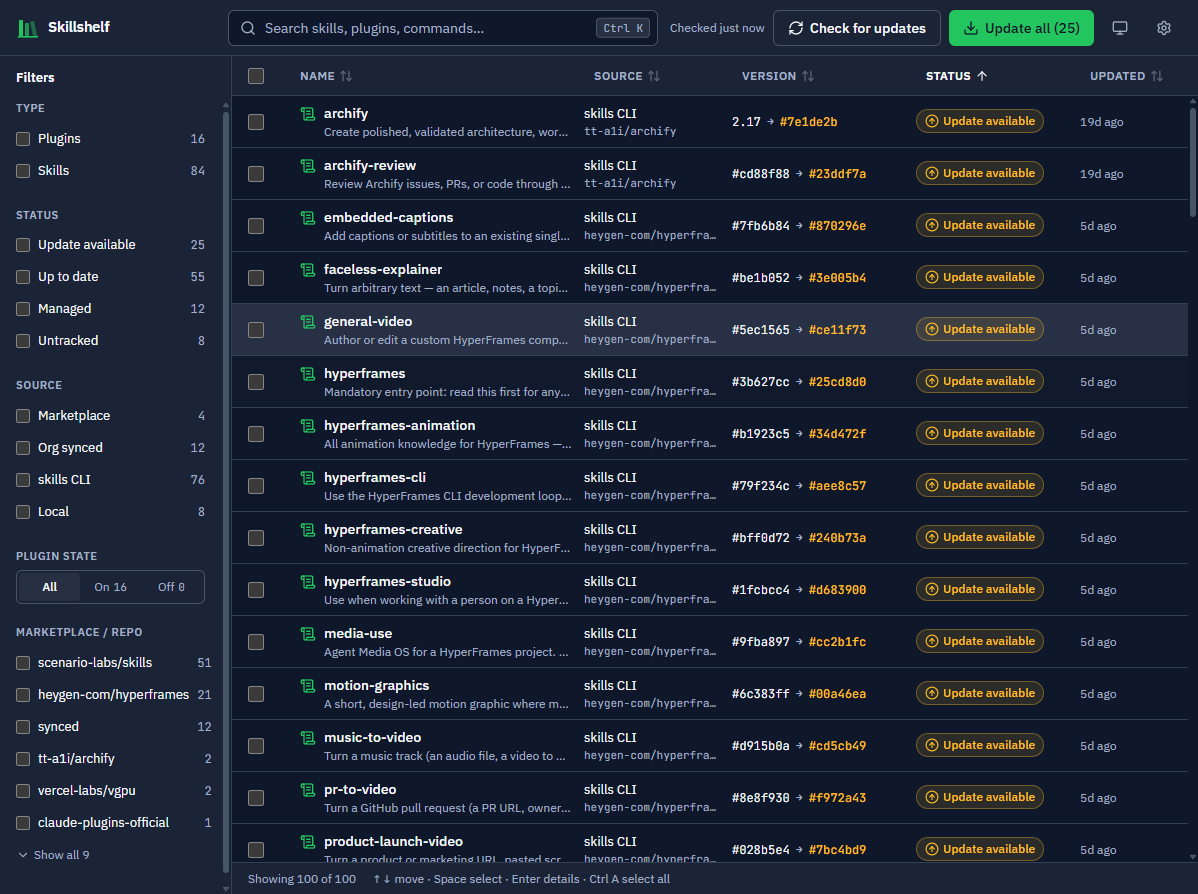
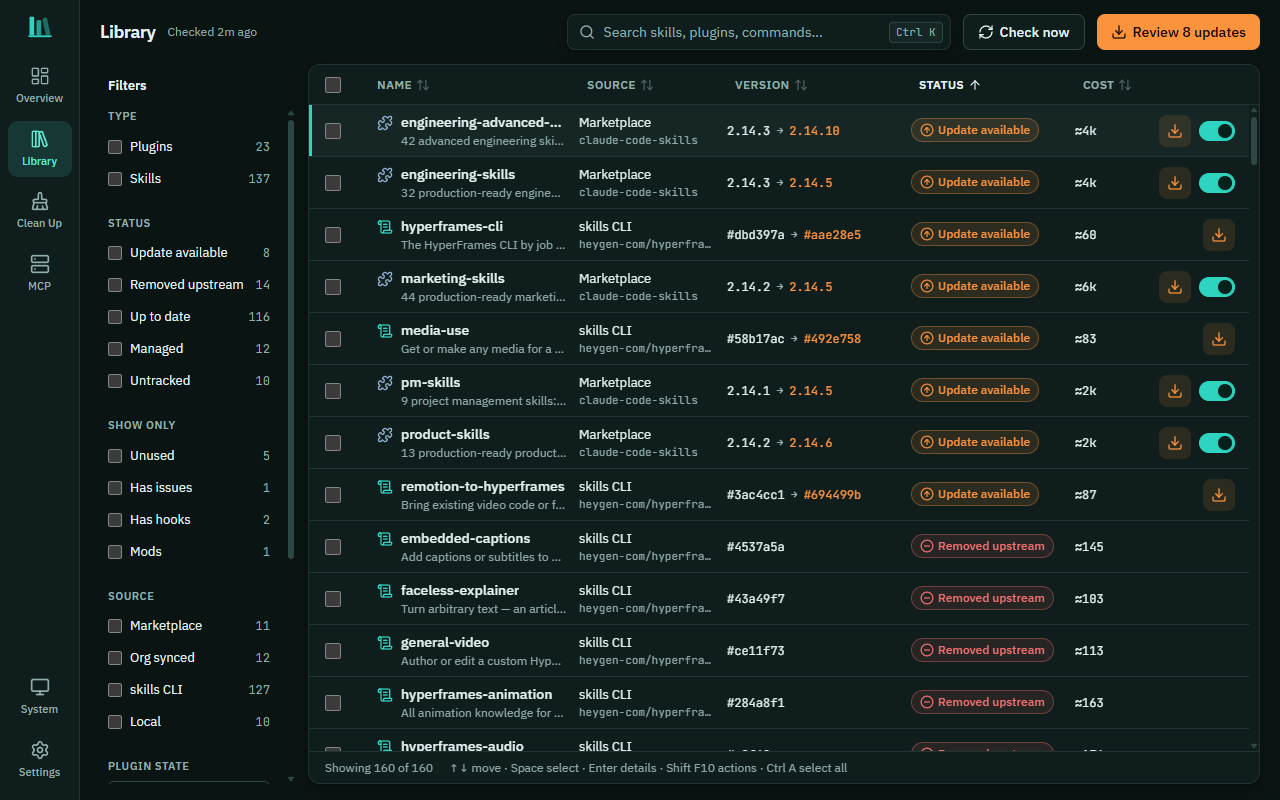
README: document v0.2 features and refresh screenshots
Feature list, risk flags, context cost and usage (transcripts stay
local), uninstall and plugin data, tray, updating a clone, and the new
module layout. The skills changelog row now describes the tree-hash
lookup. Screenshots retaken from the real app (Library dark, Overview
light).

diff --git a/README.md b/README.md
@@ -4,12 +4,20 @@
 
 A desktop app for the skills and plugins you've installed for Claude Code. It runs on Windows, macOS and Linux. You can:
 
-- **See everything in one list**: marketplace plugins, plugins your claude.ai organization syncs to you, skills installed with the [`skills` CLI](https://skills.sh), hand-made skills in `~/.claude/skills`, and skills in project folders you add.
-- **Check what's out of date**: Skillshelf compares each item with its upstream source (see below).
-- **See what changed** before you update: commits and release notes between your version and the latest (see below).
-- **Update** one item, a selection, or everything with **Update all**.
-- **Filter, sort and search** by type, status, source, marketplace/repo and on/off state. Each filter option shows a count.
-- **Enable/disable** plugins, **uninstall** items (always with a confirmation), and open an item's folder or source repo.
+- **See everything in one list**: marketplace plugins, plugins your claude.ai organization syncs to you, skills installed with the [`skills` CLI](https://skills.sh), hand-made skills in `~/.claude/skills`, and skills in project folders you add. Claude Code mods get a **Mod** tag.
+- **Start from the Overview**: pending updates, context cost per session and the heaviest items, unused plugins, MCP server problems, skill health issues and skills that changed upstream.
+- **Check what's out of date** at launch and once a day. Skillshelf compares each item with its upstream source (see below) and sends one notification per new update.
+- **Review before you update**: commits and release notes between your version and the latest, plus risk flags when an update changes hooks, MCP servers, scripts or a skill's allowed tools (see below).
+- **Update** one item from its row, the right-click menu, the details panel or the tray, or several with **Update all**: a review sheet where you untick what to skip. A batch shows its progress and has a **Stop** button.
+- **See what each item costs**: an estimate of the tokens it adds to every session, and how often you used it in the last 30 days, counted from your local transcripts (see below).
+- **Clean up**: unused plugins, plugins with hooks, org-managed plugins (locked), and skills that moved or were removed upstream, with Turn off, Uninstall and Reinstall.
+- **Check MCP servers**: each server's status, grouped by plugin, with the reason when it can't connect.
+- **Filter, sort and search** by type, status, source, marketplace/repo, on/off state, and Unused, Has issues, Has hooks or Mods. Sort by context cost or uses too. Each filter option shows a count.
+- **Turn plugins on and off**, **uninstall** items (always with a confirmation), and open an item's folder or source repo.
+
+Closing the window keeps Skillshelf in the tray (menu bar on macOS), so daily checks and notifications keep running. The tray menu lists pending updates and has **Check now**, **Update all** and **Quit**.
+
+![Overview](docs/screenshot-light.png)
 
 ## How update checks work
 
@@ -26,17 +34,28 @@ Plugin changes apply after you restart Claude Code. The app shows a reminder whe
 
 ## What changed
 
-When you open an item with an update, the detail panel lists what changed since your version. The update confirmation shows a one-line summary. Skillshelf looks this up only when you open an item, never during the update check.
+When you open an item with an update, the details panel lists what changed since your version, and the **Update all** review sheet shows the same list for each item. Skillshelf looks this up only when you open an item or the review sheet, never during the update check.
 
 | Source | Where the list comes from |
 |---|---|
 | Marketplace plugin | `git log <installed commit>..HEAD -- <plugin folder>` in the local marketplace copy. Claude Code clones marketplaces shallowly, so when the installed commit isn't there and the marketplace is on GitHub, the same list comes from the GitHub API (two requests). If the plugin folder has a `CHANGELOG.md`, the releases newer than your version are shown too |
 | Plugin pinned to a commit of its own GitHub repo | GitHub compare API, installed commit to latest |
-| `skills` CLI skill | Commits that touched the skill's folder since your last update (`updatedAt` in the lockfile), one GitHub request |
+| `skills` CLI skill | Commits that touched the skill's folder, newest first. Skillshelf finds your version by comparing the folder's tree hash at each commit with `skillFolderHash` in the lockfile (up to 30 lookups); the newer commits are what's new |
 | Skill with `skill-release.json` | The `changelog` or `changelogUrl` field (see below) |
 | Org-synced plugin, local or project skill | Shown as "No changelog available". There's no upstream history to read |
 
 Results are cached until the item's version changes, so reopening an item doesn't cost another request.
+
+### Risk flags
+
+The same lookup compares your version with the latest and flags four kinds of change. Hover or focus a flag to see the files and why it matters.
+
+| Flag | Files |
+|---|---|
+| Hooks | `hooks/hooks.json`, or `hooks` in `plugin.json` |
+| MCP servers | `.mcp.json`, or `mcpServers` in `plugin.json` |
+| Scripts | shell, PowerShell, Python, JavaScript/TypeScript, Ruby, Perl, `.cmd`, `.bat`, `.exe`, and anything under `bin/` or `scripts/` |
+| Allowed tools | a skill's `allowed-tools` front matter |
 
 ### Changelogs for `skill-release.json`
 
@@ -54,6 +73,16 @@ A skill that ships an update manifest can publish release notes in one of two op
 - `changelog`: the markdown inline, as a string.
 
 Use one heading per release with the version in it (`## 1.4.0`, `## [1.4.0] - 2026-10-01`, `## v1.4.0`). Skillshelf shows the releases newer than the installed version, up to the latest. A changelog without version headings is shown whole.
+
+## Context cost and usage
+
+- **Context cost** estimates the tokens an item adds to every session: the names and descriptions of its skills, commands and agents, which Claude Code always sends. It counts about 4 characters per token, so treat it as a rough guide. MCP tool definitions and hook output can't be known without running them, so they aren't counted. The total is in the window title.
+- **Usage** counts skill, command, agent and plugin MCP calls in your session transcripts (`~/.claude/projects/**/*.jsonl`). The first count reads them all in the background; after that, only what was added since. The counts are cached in the app data folder. The code that reads them makes no network requests: your transcripts never leave your PC.
+- **Unused** means a plugin that is on and had no uses in 30 days. Plugins with hooks (mods included) and org-managed plugins never count as unused: hooks don't show up in transcripts, and org-managed plugins can't be uninstalled.
+
+## Uninstalling
+
+Every uninstall asks first. Claude Code keeps a folder for each plugin, `~/.claude/plugins/data/<plugin>`, for its settings, caches and downloads. When that folder has files, the confirmation shows its size and asks whether to delete it too (unticked by default). Skills installed with the `skills` CLI are unlinked from Claude Code only, and local skills go to the OS trash.
 
 Sometimes a marketplace declares its own install command for an update. When that happens, Skillshelf shows you the exact command and its hash and runs it only if you approve. It never passes `-y` blindly.
 
@@ -85,11 +114,15 @@ Skillshelf updates itself with the [Tauri updater](https://v2.tauri.app/plugin/u
 
 What's new comes from [CHANGELOG.md](CHANGELOG.md).
 
+### Running from a clone
+
+A copy you built yourself and run from the clone (`src-tauri/target/…`) updates from git instead. It checks origin's default branch on launch and once a day. **Update & restart** runs `git pull --ff-only`, `npm ci` and `npm run tauri build -- --no-bundle`, then starts the new build and quits. It refuses, and says why in **Settings → App updates**, when the clone is on another branch, has commits origin doesn't, or has uncommitted changes, so your own work is never touched.
+
 ## Requirements
 
 - `claude` (Claude Code CLI) on `PATH`, needed for plugins
 - `node`/`npx`, needed to update skills installed with the `skills` CLI
-- `git`, used for plugin version comparison
+- `git`, used for plugin version comparison and for updating a copy that runs from its clone
 - `gh` (optional), raises the GitHub rate limit
 
 The environment section in **Settings** shows which of these were found.
@@ -148,11 +181,17 @@ CI signs with the `TAURI_SIGNING_PRIVATE_KEY` repository secret. The matching pu
 ```
 src-tauri/src/
   scan/        offline discovery of plugins and skills
-  updates/     marketplace / GitHub update checks
+  updates/     update checks, what changed, risk flags
   actions.rs   update, enable, disable, uninstall (fixed argument lists, validated ids)
+  cost.rs      context cost estimate
+  usage.rs     uses counted from local transcripts (no network)
+  health.rs    skill health checks
+  mcp.rs       MCP server status from `claude mcp list` (hosts only)
+  tray.rs      tray menu and notifications
+  selfupdate.rs  updating a copy that runs from its git clone
   proc.rs      runs CLIs without a shell or console window
 src/
-  components/  toolbar, filter sidebar, virtualized list, detail panel, activity queue, dialogs
+  components/  rail, Overview, Library (list, filters, details panel), Clean Up, MCP, review sheet, queue, dialogs
   store.ts     app state (zustand)
 design-system/ design tokens and rules (ui-ux-pro-max)
 ```
